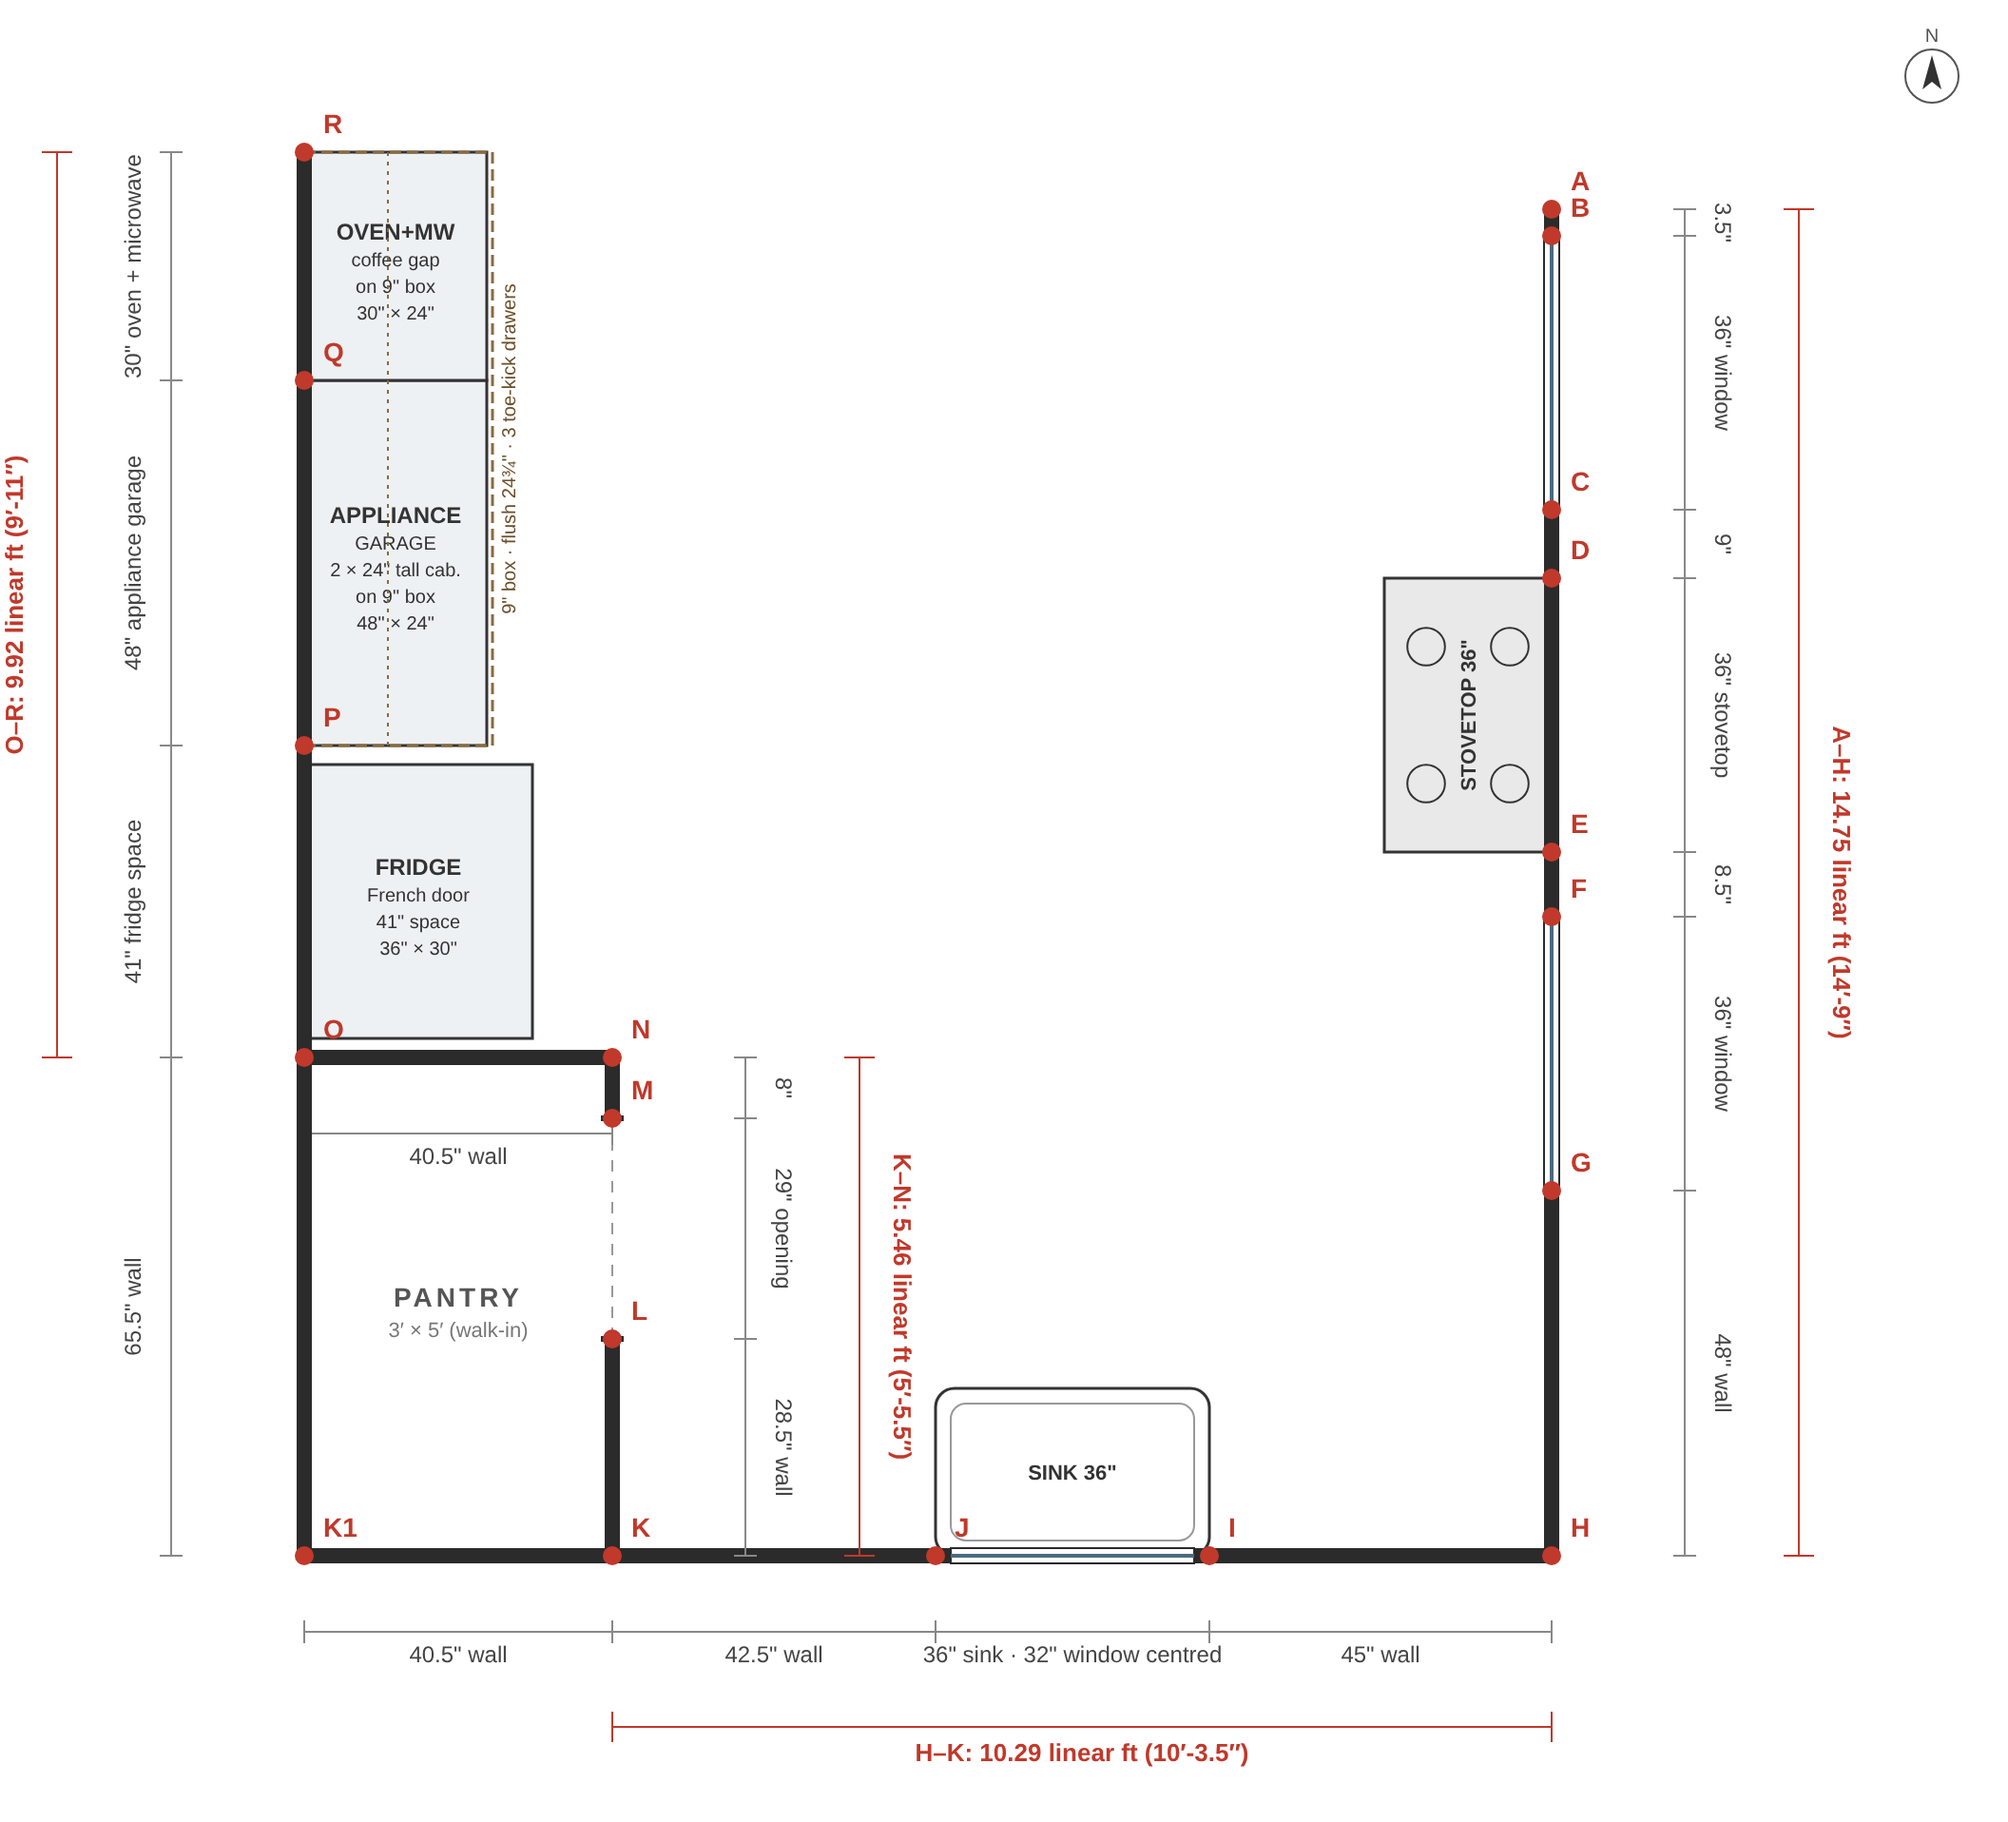
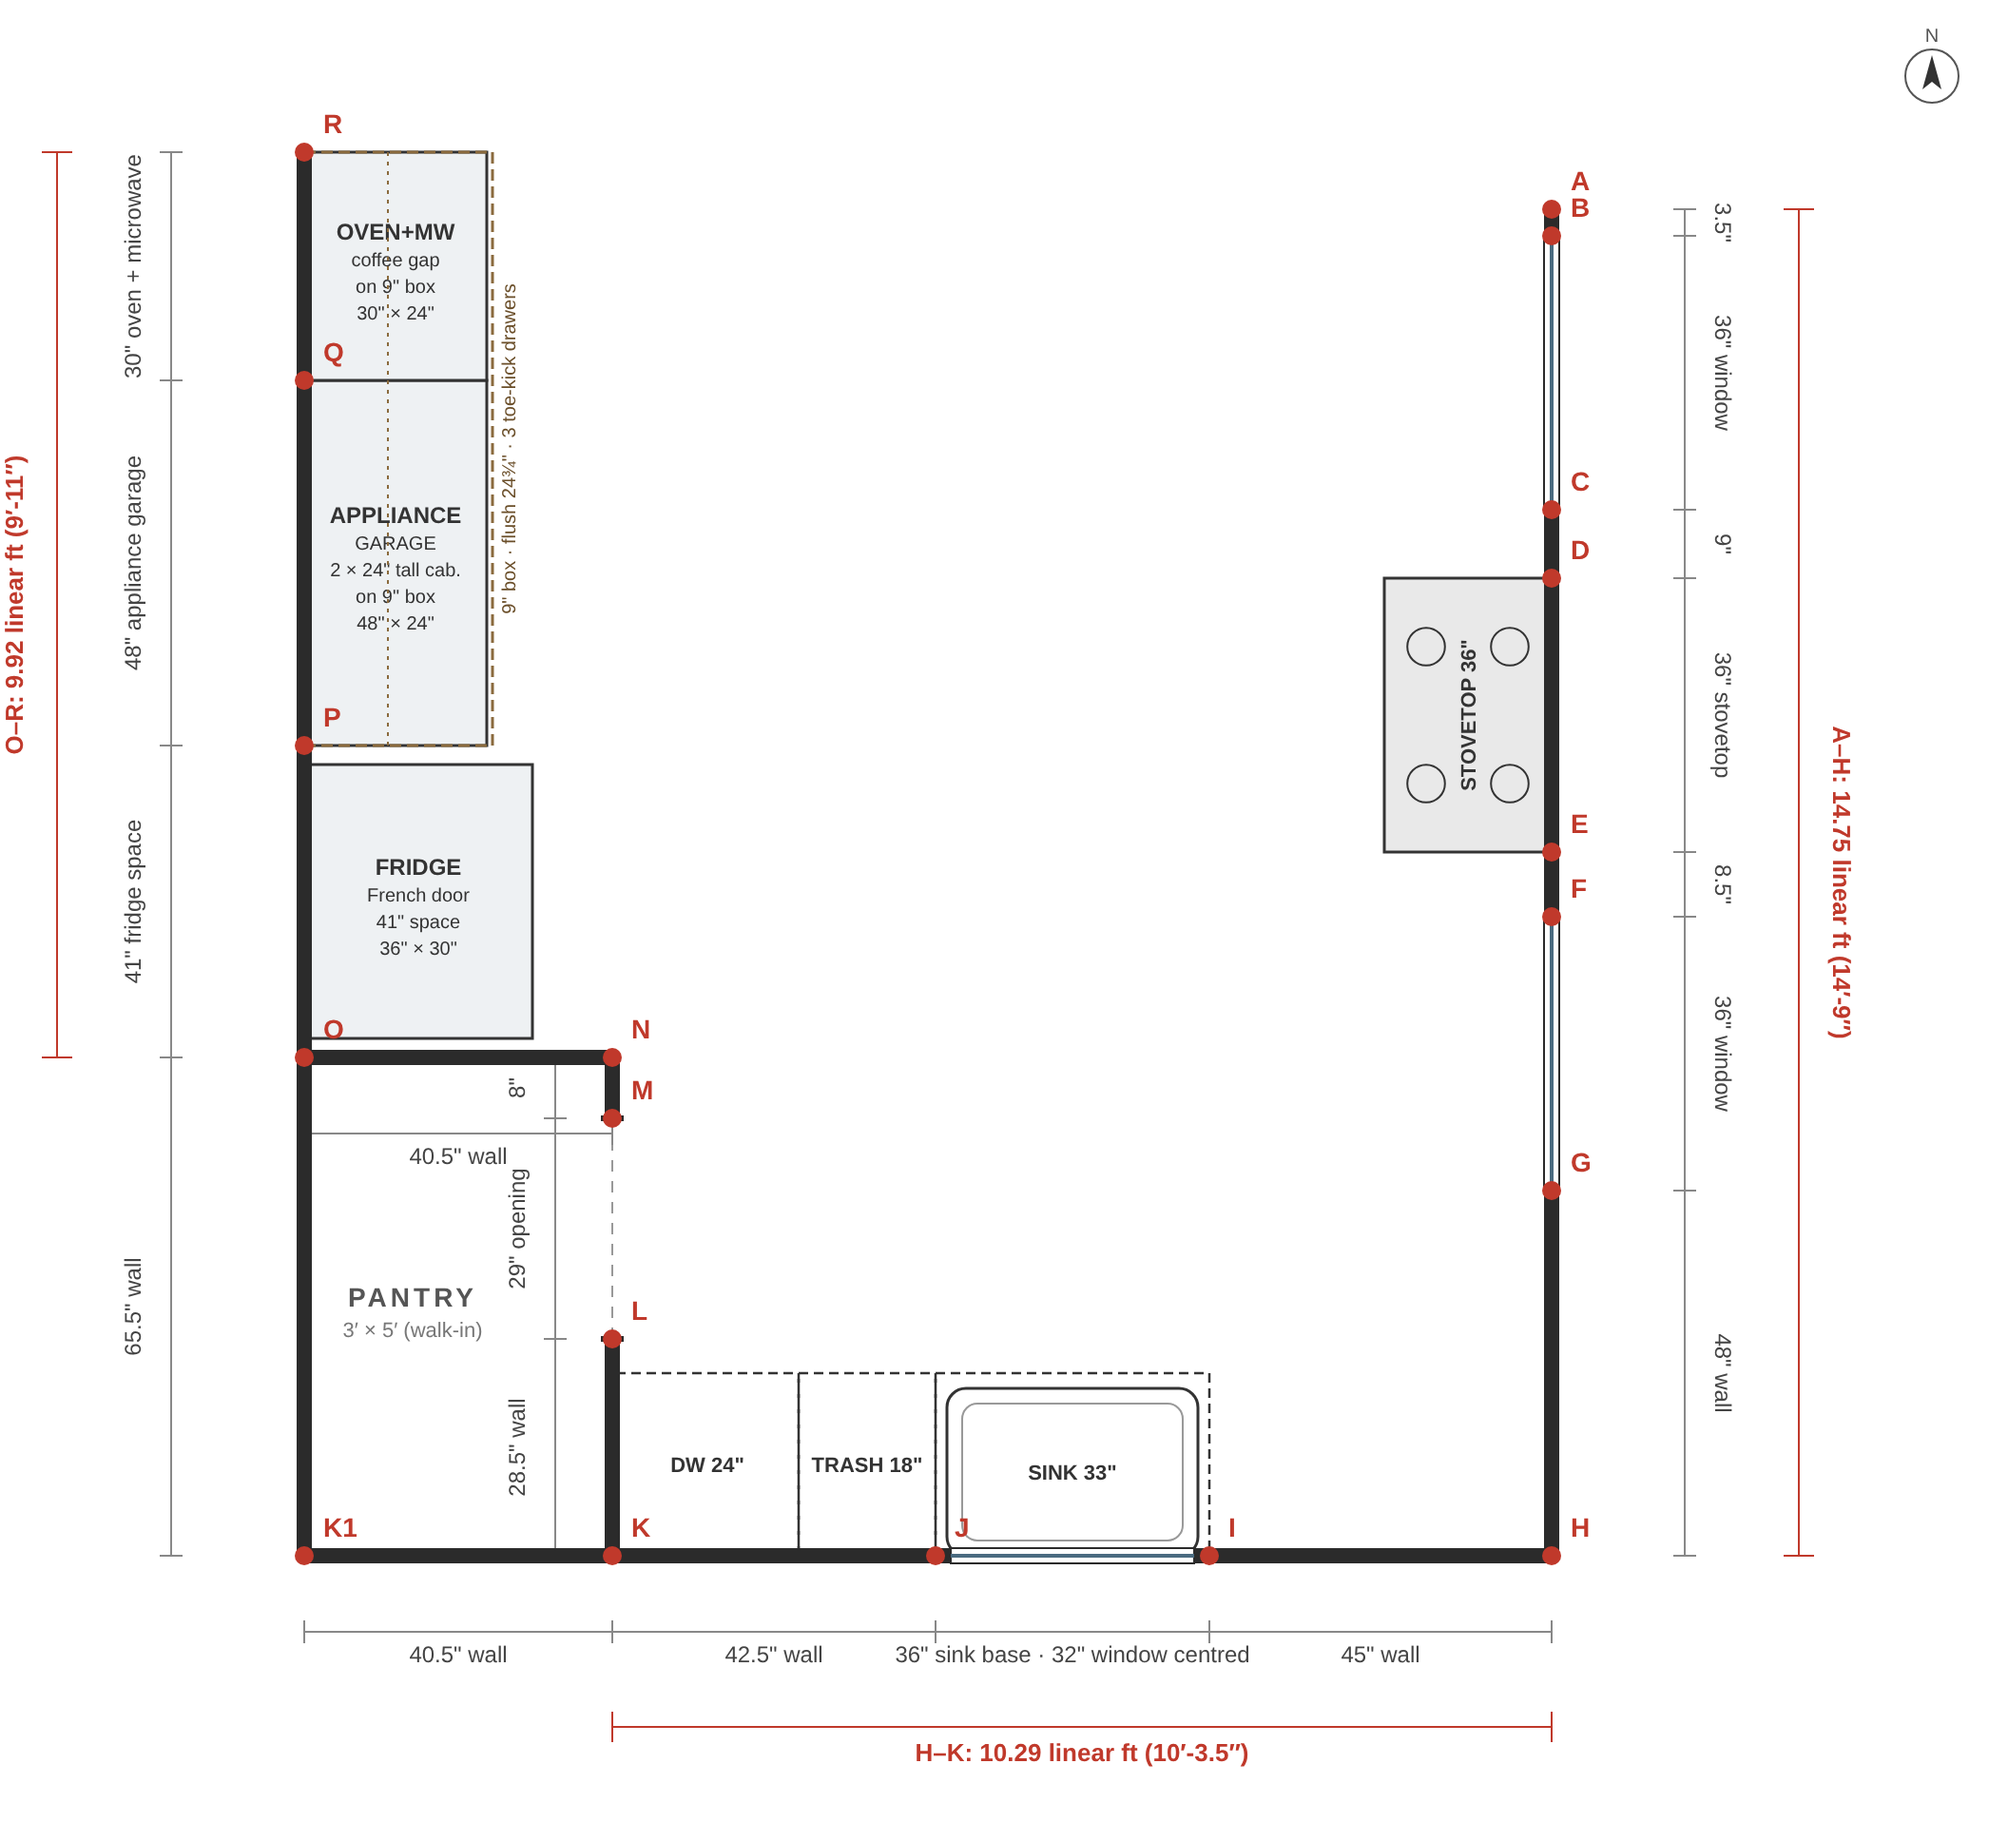
South wall: 36in sink base with 33in sink, 18in trash pull-out, 24in dishwasher to wall K
Claude-Session: https://claude.ai/code/session_01N1gJVqnW36KpNULQpj6QJQ

diff --git a/floorplans/build_floorplan.py b/floorplans/build_floorplan.py
@@ -37,19 +37,19 @@ SEGMENTS = [
 ]
 
 # Room labels: (title, subtitle, points whose centre the label sits at)
-ROOMS = [("PANTRY", "3′ × 5′ (walk-in)", ["K", "K1", "O", "N"])]
+ROOMS = [("PANTRY", "3′ × 5′ (walk-in)", ["K", "K1", "O", "N"], -6)]  # last: x shift in inches
 
 # Force dimension side for walls whose outside is cluttered, keyed by segment end label
 # (1 = east/south of the wall, -1 = west/north). Totals use "A-B" keys.
-DIM_SIDE = {"L": 1, "M": 1, "N": 1, "K-N": 1}
+DIM_SIDE = {"L": -1, "M": -1, "N": -1}  # K-N dims sit inside the pantry, clear of the south-wall cabinets
 
 # Dimensions for runs whose segments use hidden "_" points: (from, to, text)
-SPANS = [("I", "J", '36" sink · 32" window centred')]
+SPANS = [("I", "J", '36" sink base · 32" window centred')]
 
 LABELS = {"opening": "walkway opening"}
 MARGIN = 80
 # Overall run dimensions drawn outside the segment dimensions: (from label, to label)
-TOTALS = [("A", "H"), ("H", "K"), ("K", "N"), ("O", "R")]
+TOTALS = [("A", "H"), ("H", "K"), ("O", "R")]
 
 # Countertops along walls: (points along the wall, depth in inches)
 # Points may be a label or an (x, y) position in inches.
@@ -78,7 +78,10 @@ NO_WINDOW = []
 # (kind, label, from, to, offset, width, depth). kind: range | hood | sink | under
 FIXTURES = [
     ("range", "STOVETOP", "D", "E", 0, 36, 22),
-    ("sink", "SINK", "H", "K", 45, 36, 22),
+    ("under", "SINK BASE", "H", "K", 45, 36, 24),  # IKEA 36" sink base
+    ("sink", "SINK", "H", "K", 46.5, 33, 22),  # 33" sink centred on the base (and under the 32" window)
+    ("under", "TRASH", "H", "K", 81, 18, 24),  # 18" cabinet, double 35 qt pull-out
+    ("under", "DW", "H", "K", 99, 24, 24),  # dishwasher against wall K, 0.5" filler
 ]
 
 DIM_OFFSET = 40  # px, dimension line offset to the left/top of the segment
@@ -303,7 +306,7 @@ def build():
     def seg_dim(x1, y1, x2, y2, vertical, text, force=None):
         if vertical:
             side = force or (1 if (x1 - ox) / SCALE >= (min(xs) + max(xs)) / 2 else -1)  # keep dims outside the room
-            dx_ = x1 + side * (DIM_OFFSET + 30)
+            dx_ = x1 + side * (30 if force else DIM_OFFSET + 30)  # forced dims hug the wall
             mid = (y1 + y2) / 2
             out.append(f'  <g stroke="#888"><line x1="{dx_}" y1="{y1}" x2="{dx_}" y2="{y2}"/>'
                        f'<line x1="{dx_-6}" y1="{y1}" x2="{dx_+6}" y2="{y1}"/><line x1="{dx_-6}" y1="{y2}" x2="{dx_+6}" y2="{y2}"/></g>')
@@ -375,8 +378,8 @@ def build():
                        f'<line x1="{x1}" y1="{dy_-8}" x2="{x1}" y2="{dy_+8}"/><line x1="{x2}" y1="{dy_-8}" x2="{x2}" y2="{dy_+8}"/></g>')
             out.append(f'  <text x="{mid}" y="{dy_+(18 if vside > 0 else -8)}" font-size="13" font-weight="700" fill="#c0392b" text-anchor="middle">{text}</text>')
 
-    for title, sub, lbls in ROOMS:
-        cxr = sum(by_label[l][1] for l in lbls) / len(lbls)
+    for title, sub, lbls, shift in ROOMS:
+        cxr = sum(by_label[l][1] for l in lbls) / len(lbls) + shift
         cyr = sum(by_label[l][2] for l in lbls) / len(lbls)
         tx, ty = P(cxr, cyr)
         out.append(f'  <text x="{tx}" y="{ty}" font-size="14" font-weight="700" fill="#555" text-anchor="middle" letter-spacing="2">{title}</text>'
@@ -487,7 +490,17 @@ def build_elevation(filename, title, labels, ceil0, ceil1, opts=None):
         o.append(f'  <text x="{X((t0 + t1) / 2)}" y="{Y(zc)}" font-size="11" font-weight="700" fill="#333" text-anchor="middle">{ztitle}</text>'
                  f'<text x="{X((t0 + t1) / 2)}" y="{Y(zc) + 14}" font-size="9" fill="#555" text-anchor="middle">{zsub}</text>')
     for kind, name, a_lbl, b_lbl, off, fw, dep in FIXTURES:
-        if a_lbl not in pos or b_lbl not in pos or kind not in ("range", "sink"):
+        if a_lbl not in pos or b_lbl not in pos or kind not in ("range", "sink", "under"):
+            continue
+        if kind == "under":
+            if not name:
+                continue
+            sgn = 1 if pos[b_lbl] > pos[a_lbl] else -1
+            t0, t1 = sorted((pos[a_lbl] + sgn * off, pos[a_lbl] + sgn * (off + fw)))
+            ch = COUNTER_HEIGHT - 1.5  # cabinet top, under a 1.5" countertop
+            o.append(f'  <rect x="{X(t0) + 1}" y="{Y(ch)}" width="{(t1 - t0) * SCALE - 2}" height="{(ch - 4.5) * SCALE}" fill="#f1ede6" stroke="#333" stroke-dasharray="5 3"/>')
+            o.append(f'  <text x="{X((t0 + t1) / 2)}" y="{Y(ch / 2)}" font-size="11" font-weight="700" fill="#333" text-anchor="middle">{name}</text>'
+                     f'<text x="{X((t0 + t1) / 2)}" y="{Y(ch / 2) + 14}" font-size="10" fill="#555" text-anchor="middle">{fw:g}"</text>')
             continue
         sgn = 1 if pos[b_lbl] > pos[a_lbl] else -1
         t0, t1 = sorted((pos[a_lbl] + sgn * off, pos[a_lbl] + sgn * (off + fw)))
